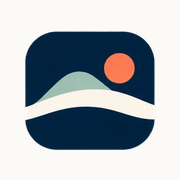
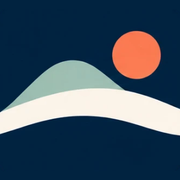
Icono de iOS a sangre: llena todo el recuadro, sin margen ni esquinas
Antes llevaba margen y fondo crema, y iOS lo mostraba como un icono dentro de otro.

diff --git a/scripts/generar-logos.ts b/scripts/generar-logos.ts
@@ -15,6 +15,7 @@ import sharp from "sharp";
 const RAIZ = process.cwd();
 const ORIGINAL = path.join(RAIZ, "marca", "axenda-logo-original.webp");
 const CREMA = "#fcfaf6";
+const AZUL = { r: 1, g: 35, b: 64 }; // fondo del icono
 const UMBRAL = 12; // opacidad mínima para contar como "hay contenido"
 
 async function main() {
@@ -64,8 +65,23 @@ async function main() {
       { input: interior, left: Math.round((lado - ancho) / 2), top: Math.round((lado - alto) / 2) },
     ]);
   };
+  // iOS pone su propio recuadro redondeado y no admite transparencia: el icono tiene que llenar todo el cuadrado.
+  // Se recorta un poco el borde (las esquinas redondeadas) y se completa con el azul del fondo.
+  const sangrado = async (lado: number) => {
+    const meta = await sharp(iconoBuf).metadata();
+    const recorte = Math.round(meta.height! * 0.07);
+    const ancho = meta.width! - 2 * recorte;
+    const alto = meta.height! - 2 * recorte;
+    const centro = await sharp(iconoBuf).extract({ left: recorte, top: recorte, width: ancho, height: alto }).png().toBuffer();
+    // Primero se compone y luego se redimensiona (sharp redimensiona antes de componer)
+    const cuadrado = await sharp({ create: { width: ancho, height: ancho, channels: 4, background: { ...AZUL, alpha: 1 } } })
+      .composite([{ input: centro, left: 0, top: Math.round((ancho - alto) / 2) }])
+      .png()
+      .toBuffer();
+    return sharp(cuadrado).flatten({ background: AZUL }).resize(lado, lado);
+  };
   await guardar(await cuadrado(256, 0.02), "src/app/icon.png"); // favicon y pestañas
-  await guardar(await cuadrado(180, 0.14, CREMA), "src/app/apple-icon.png"); // iOS no admite transparencia
+  await guardar(await sangrado(180), "src/app/apple-icon.png"); // pantalla de inicio de iOS
   await guardar(await cuadrado(192, 0.02), "public/icon-192.png");
   await guardar(await cuadrado(512, 0.02), "public/icon-512.png");
   await guardar(await cuadrado(512, 0.22, CREMA), "public/icon-maskable-512.png"); // zona segura de los iconos adaptables
